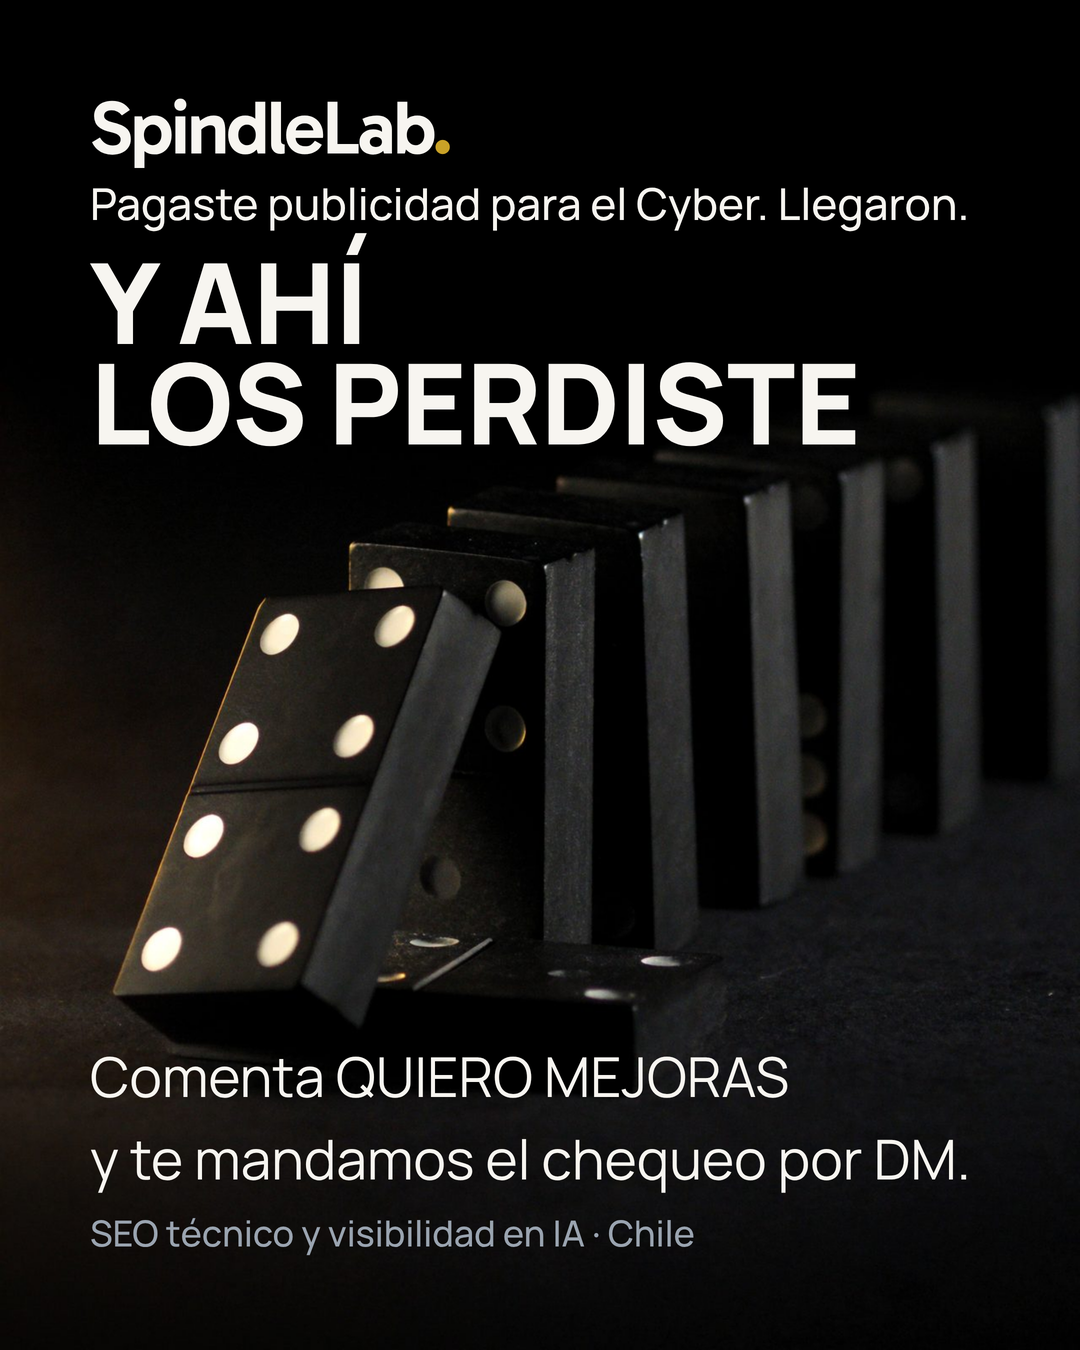
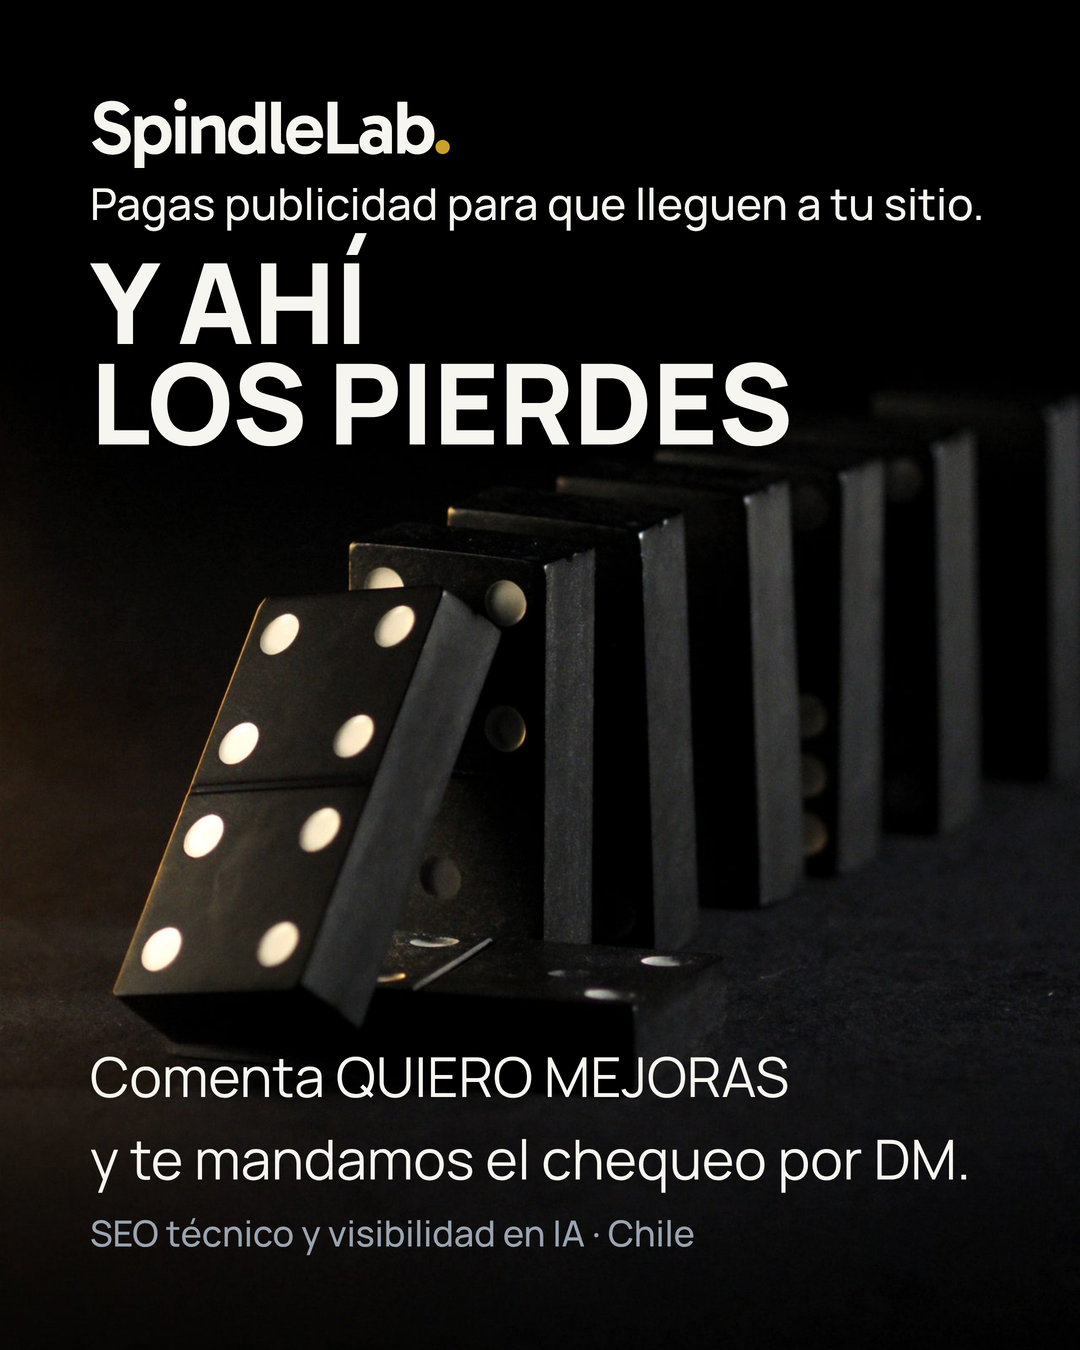
el angulo Cyber vencio sin salir: las piezas vuelven a un arranque sin fecha
Hoy es sabado 10. El Cyber fue del 5 al 7 y el post de LinkedIn del jue 8 nunca salio, asi que
la coyuntura se cerro. Las dos piezas de Instagram dependian de esa ventana y habia que
sacarlas de ahi antes de que alguien las publique vencidas.

La portada vuelve a presente: pagas publicidad para que lleguen a tu sitio, y ahi los pierdes.
La lamina 2 pregunta por el mes en vez de por esos tres dias.

Y el cierre gana algo que antes no tenia: ahora mira hacia adelante. Viene Navidad es un hecho
y no una cuenta regresiva fabricada, y convierte el post-mortem en algo que todavia se puede
arreglar. Lamentar lo que ya paso no vende; llegar a tiempo al proximo pico si.

Las dos versiones del Cyber quedan anotadas en el HTML por si vuelve a servir en el proximo
pico de ecommerce: el argumento no cambia, solo el arranque.

Claude-Session: https://claude.ai/code/session_01CR5SfVdVRLCtMzHMRctqPx

Changed region(s): [[0.1833, 0.1244, 0.8861, 0.1867], [0.3667, 0.2489, 0.7944, 0.3422]]

diff --git a/marketing/brand/instagram-v3/_exploracion/A2-cuantos-te-escribieron.html b/marketing/brand/instagram-v3/_exploracion/A2-cuantos-te-escribieron.html
@@ -1,6 +1,10 @@
 <!doctype html><html lang="es"><head><meta charset="utf-8"><link rel="stylesheet" href="base.css">
 <!-- DIRECCIÓN A · lámina 2 · «el número que te falta».
-     ÁNGULO CYBER (Ramón, 7-oct): el CyberMonday fue del 5 al 7 de octubre y terminó anoche, así
+     ⚠ CORREGIDO EL 10-oct: la versión del Cyber («Ya tienes los números del Cyber», «estos tres
+     días») venció sin alcanzar a salir. El cierre ahora mira HACIA ADELANTE con «Viene Navidad»,
+     que es un hecho y no una cuenta regresiva fabricada: convierte el post-mortem en algo que
+     todavía se puede arreglar, que vende mejor que lamentar lo que ya pasó.
+     ÁNGULO CYBER ORIGINAL (Ramón, 7-oct), por si vuelve a servir: el CyberMonday fue del 5 al 7 de octubre y terminó anoche, así
      que el dueño tiene los números frescos HOY. Es la única semana del año en que esta pregunta
      llega en el momento exacto. VENTANA CORTA: pasada esta semana, el arranque se cambia por
      temporada alta (noviembre y diciembre) y el argumento se sostiene igual.
@@ -19,11 +23,11 @@
   .cierre b { font-size: var(--t-h3); font-weight: 600; line-height: 1.4; }
   .cierre .sub { margin-top: 28px; font-size: var(--t-desc); line-height: 1.5; opacity: .82; }
 </style></head><body class="f45 campo--brasa">
-<p class="ojillo rot" style="color:currentColor;opacity:.72">Ya tienes los números del Cyber: visitas, clics, alcance.</p>
+<p class="ojillo rot" style="color:currentColor;opacity:.72">Te llega el informe del mes: visitas, clics, alcance.</p>
 <h2 class="display" style="font-size:96px;margin-bottom:0">Ahora abre<br>tu teléfono.</h2>
-<p class="pregunta">¿Cuántos clientes nuevos te escribieron estos tres días?</p>
+<p class="pregunta">¿Cuántos clientes nuevos te escribieron este mes?</p>
 <div class="cierre">
   <p><b>Si no te escribió nadie, esas visitas no valieron nada.</b></p>
-  <p class="sub">Pagaste para que llegaran a tu sitio, y se fueron. Eso no se arregla con más publicidad.</p>
+  <p class="sub">Pagas para que lleguen a tu sitio, y se van. Viene Navidad: eso no se arregla con más publicidad.</p>
 </div>
 </body></html>

diff --git a/marketing/brand/instagram-v3/_exploracion/A-llano.html b/marketing/brand/instagram-v3/_exploracion/A-llano.html
@@ -2,6 +2,11 @@
 <!-- DIRECCIÓN A · «la foto manda» · VARIANTE DE TITULAR LLANO (para pyme). La imagen deja de ser una pieza con radio y pasa a ser el
      lienzo: ocupa la lámina entera. El texto se apoya ARRIBA, sobre el tercio que en domino.jpg
      es negro puro (0,0,0), así que NO hace falta velo ni gradiente: la legibilidad la da la foto.
+     ⚠ VENTANA (corregido el 10-oct): la versión con «Pagaste publicidad para el Cyber. Llegaron.»
+     y «Y AHÍ LOS PERDISTE» se escribió el 7-oct, con el Cyber recién terminado. Esa ventana se
+     cerró y la pieza no salió a tiempo, así que el arranque vuelve a presente y deja de depender
+     de una fecha. La variante del Cyber queda anotada acá por si vuelve a servir en el próximo
+     pico de ecommerce; el argumento no cambia, solo el arranque.
      ENCUADRE (7-oct, pedido de Ramón): la foto se alinea a la IZQUIERDA. En el original, al fondo
      a la derecha hay una ficha inclinada en sentido contrario al de la caída, y leída rápido
      parece que la fila se devuelve. Al recortar los 270 px sobrantes por la derecha, todas las
@@ -30,8 +35,8 @@
 <div class="capa">
   <div><span class="wm wm--76">SpindleLab<i>.</i></span></div>
   <div class="titular">
-    <p class="ojillo">Pagaste publicidad para el Cyber. Llegaron.</p>
-    <h1 class="display">Y ahí<br>los perdiste</h1>
+    <p class="ojillo">Pagas publicidad para que lleguen a tu sitio.</p>
+    <h1 class="display">Y ahí<br>los pierdes</h1>
   </div>
   <div class="pie">
     <p class="llamado">Comenta QUIERO MEJORAS<br>y te mandamos el chequeo por DM.</p>
